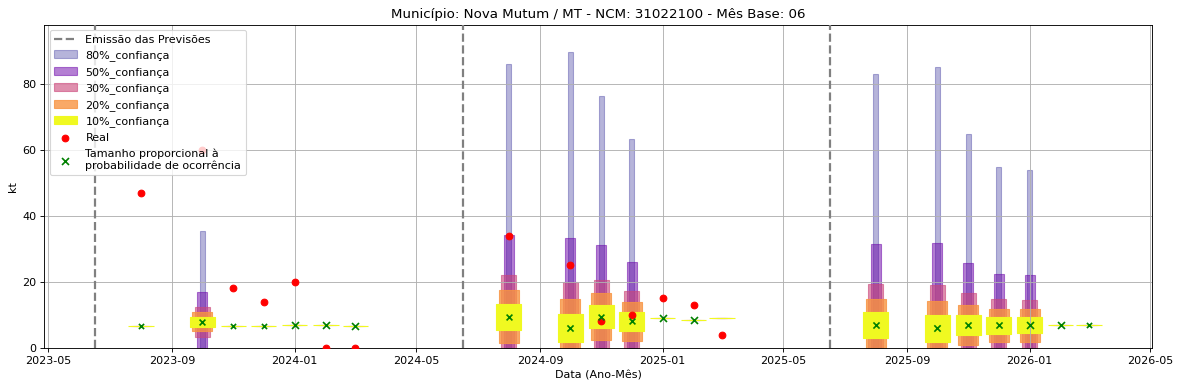
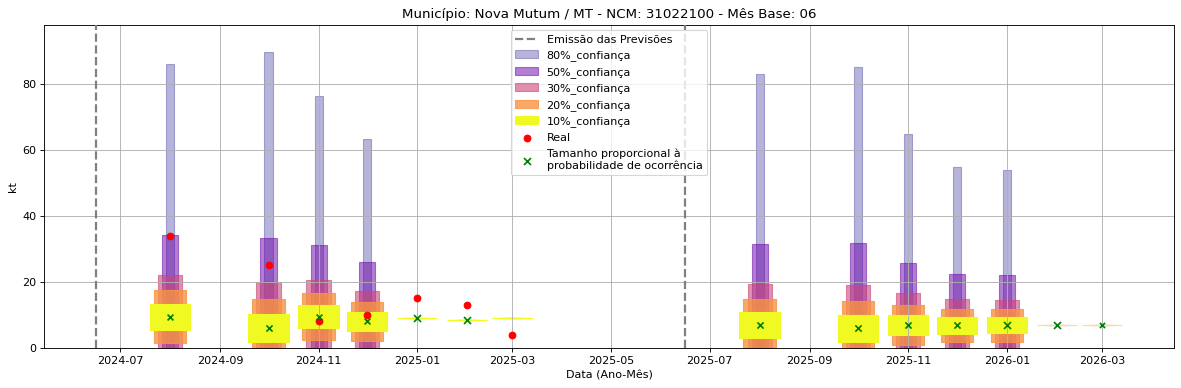
Atualização automática em lote

diff --git a/README.md b/README.md
@@ -16,70 +16,17 @@
 
 
 ![Gráfico de Previsão](31021010.png)
-
-Fator de Influência em Destaque nos últimos 8 anos:
-
+Fator de Influência em Destaque:
 Previsão Influenciada:
 - Município: Nova Mutum
 - Produto (NCM): Ureia, mesmo em solução aquosa, com teor de nitrogênio (azoto) superior a 45 %, em peso, calculado sobre o produto anidro no estado seco-31021010 
-- Mês: 01
+- Mês previsto: 01
 
 
-Fator Influenciador: Comércio Exterior
-- Produto: Combustíveis minerais, óleos minerais e produtos da sua destilação; matérias betuminosas; ceras minerais (27)
-- UF: PE
-- Unidade: kt_mun
-
-
-
-
-
-
-
-
-
-
-.
-
-![Gráfico de Previsão](31022100.png)
-
-Fator de Influência em Destaque nos últimos 8 anos:
-
-Previsão Influenciada:
-- Município: Nova Mutum
-- Produto (NCM): Sulfato de amônio-31022100 
-- Mês: 12
-
-
-Fator Influenciador: Comércio Exterior
-- Produto: Adubos (fertilizantes) (31)
-- UF: MG
-- Unidade: kt_lag1
-
-
-
-
-
-
-
-
-
-
-.
-
-![Gráfico de Previsão](31042090.png)
-
-Fator de Influência em Destaque nos últimos 8 anos:
-
-Previsão Influenciada:
-- Município: Nova Mutum
-- Produto (NCM): Outros cloretos de potássio-31042090 
-- Mês: 07
-
-
-Fator Influenciador: Comércio Exterior
-- Produto: Adubos (fertilizantes) (31)
-- UF: BA
+Fator Influenciador: Comex
+- Município: Maringá
+- Produto (NCM): Diidrogeno-ortofosfato de amônio (fosfato monoamônico ou monoamoniacal), mesmo misturado com hidrogeno-ortofosfato de diamônio (fosfato diamônico ou diamoniacal)-31054000 
+- Mês previsto: 12
 - Unidade: kt_lag12
 
 
@@ -88,7 +35,41 @@ Fator Influenciador: Comércio Exterior
 
 
 
+![Gráfico de Previsão](31022100.png)
+Fator de Influência em Destaque:
+Previsão Influenciada:
+- Município: Nova Mutum
+- Produto (NCM): Sulfato de amônio-31022100 
+- Mês previsto: 12
+
+
+Fator Influenciador: Comex
+- Município: Maringá
+- Produto (NCM): Diidrogeno-ortofosfato de amônio (fosfato monoamônico ou monoamoniacal), mesmo misturado com hidrogeno-ortofosfato de diamônio (fosfato diamônico ou diamoniacal)-31054000 
+- Mês previsto: 12
+- Unidade: kt_lag12
 
 
 
-.
+
+
+
+
+![Gráfico de Previsão](31042090.png)
+Fator de Influência em Destaque:
+Previsão Influenciada:
+- Município: Nova Mutum
+- Produto (NCM): Outros cloretos de potássio-31042090 
+- Mês previsto: 07
+
+
+Fator Influenciador: Comex
+- Município: Maringá
+- Produto (NCM): Diidrogeno-ortofosfato de amônio (fosfato monoamônico ou monoamoniacal), mesmo misturado com hidrogeno-ortofosfato de diamônio (fosfato diamônico ou diamoniacal)-31054000 
+- Mês previsto: 12
+- Unidade: kt_lag12
+
+
+
+
+
